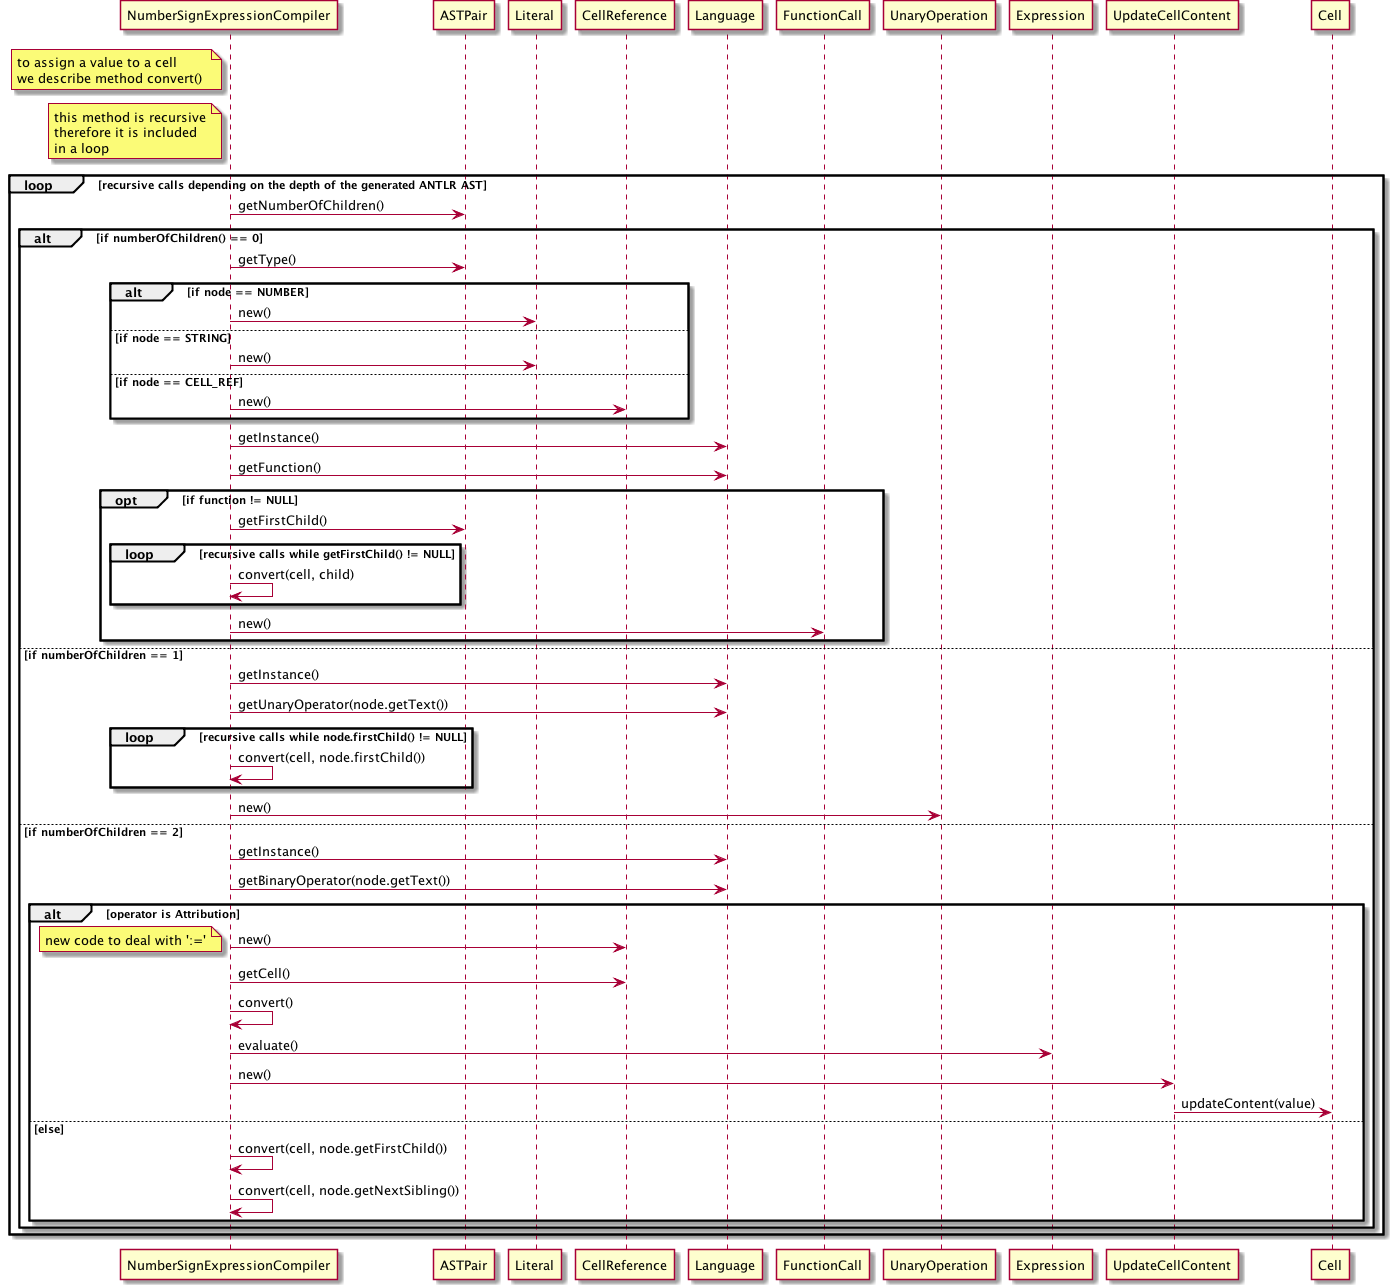
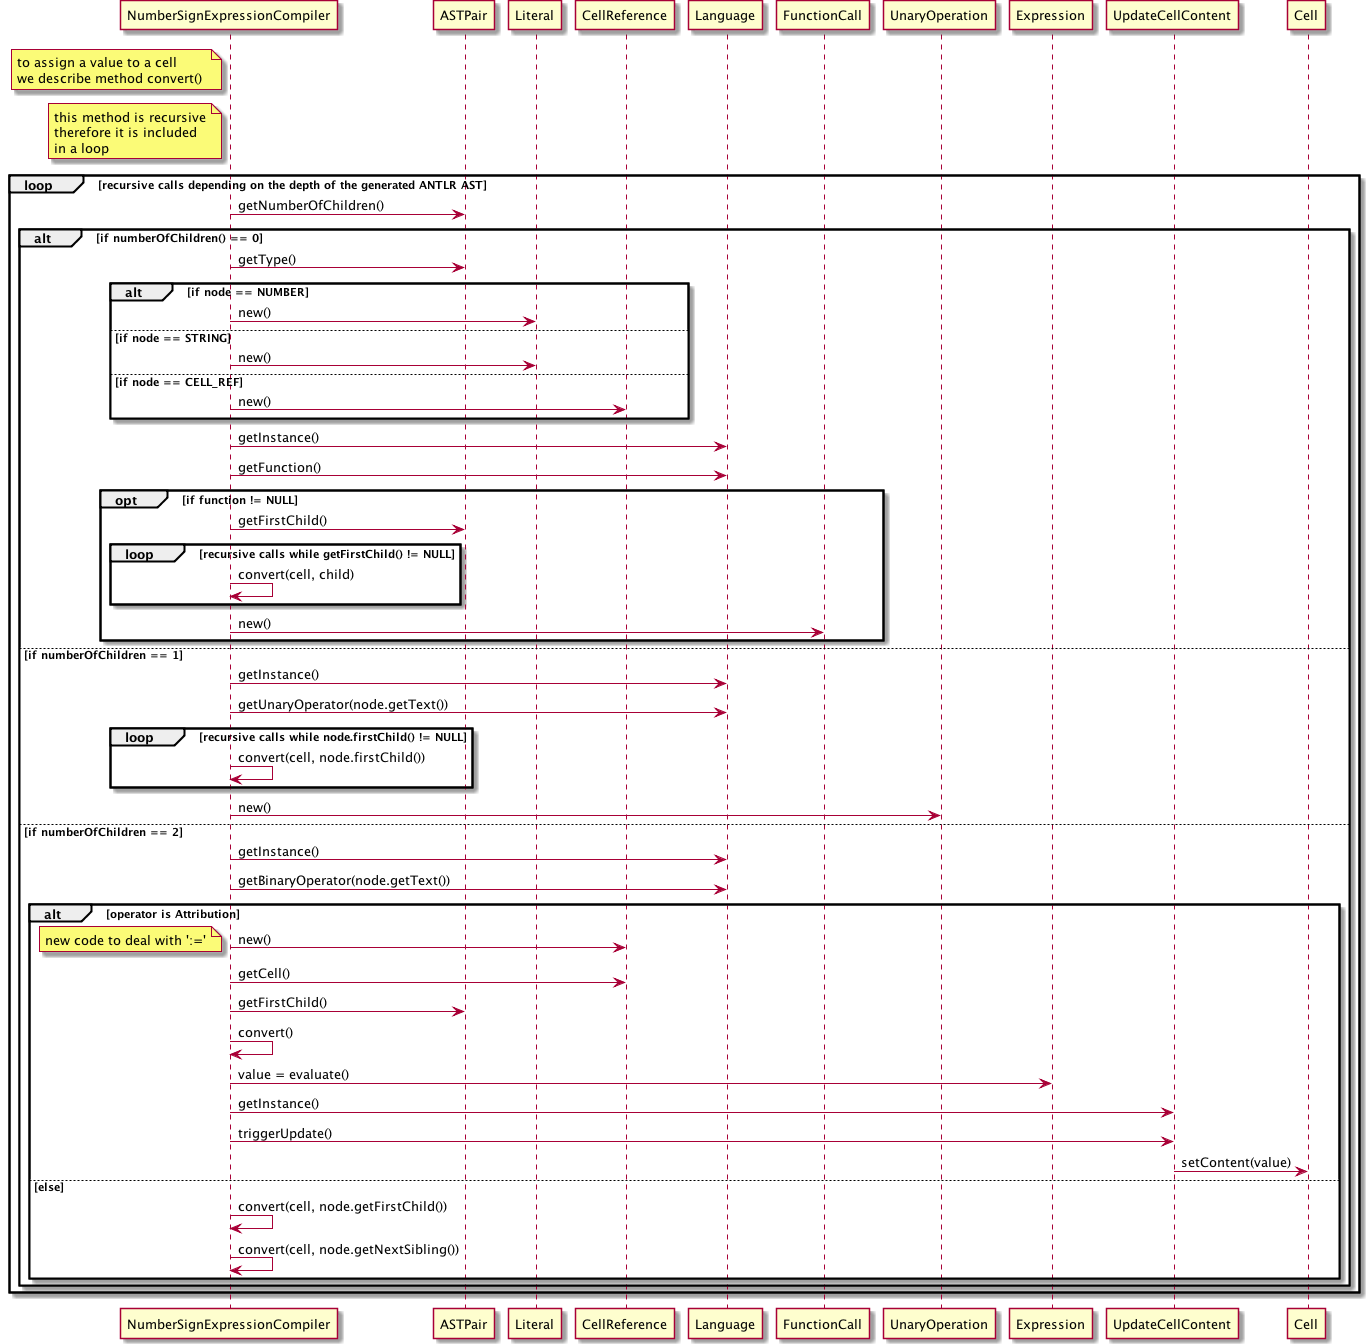
1111168: feature enhancement: UpdateCellContent is now a singleton ref #8

diff --git a/src/csheets/core/UpdateCellContent.java b/src/csheets/core/UpdateCellContent.java
@@ -5,16 +5,26 @@ import csheets.core.formula.compiler.FormulaCompilationException;
 import java.text.NumberFormat;
 
 /**
- *
+ * A singleton to update a cell's content
  * @author João Carreira
  */
 public class UpdateCellContent 
 {
-    public UpdateCellContent()
+    
+    private static UpdateCellContent instance = null;
+    
+    /* private constructor as required in the singleton pattern */
+    private UpdateCellContent()
     {
     }
     
-    public void update(Cell cell, Value value) throws FormulaCompilationException
+    /**
+     * updates a cell's content
+     * @param cell  targeted cell
+     * @param value new cell's value
+     * @throws FormulaCompilationException 
+     */
+    public void triggerUpdate(Cell cell, Value value) throws FormulaCompilationException
     {
         if(value.getType() == Value.Type.NUMERIC)
         {
@@ -24,5 +34,18 @@ public class UpdateCellContent
         {
             cell.setContent(value.toString());
         }
+    }
+    
+    /**
+     * getInstance
+     * @return UpdateCellContent instance
+     */
+    public static UpdateCellContent getInstance()
+    {
+        if(instance == null)
+        {
+            return new UpdateCellContent();
+        }
+        return instance;
     }
 }

diff --git a/docs/1111168/UmlDiagrams.java b/docs/1111168/UmlDiagrams.java
@@ -151,10 +151,12 @@ loop recursive calls depending on the depth of the generated ANTLR AST
     NumberSignExpressionCompiler -> CellReference: new()
     note left: new code to deal with ':='
     NumberSignExpressionCompiler -> CellReference: getCell()
+    NumberSignExpressionCompiler -> ASTPair: getFirstChild()
     NumberSignExpressionCompiler -> NumberSignExpressionCompiler: convert()
-    NumberSignExpressionCompiler -> Expression: evaluate()
-    NumberSignExpressionCompiler -> UpdateCellContent: new()
-    UpdateCellContent -> Cell: updateContent(value)
+    NumberSignExpressionCompiler -> Expression: value = evaluate()
+    NumberSignExpressionCompiler -> UpdateCellContent: getInstance()
+    NumberSignExpressionCompiler -> UpdateCellContent: triggerUpdate()
+    UpdateCellContent -> Cell: setContent(value)
    else else
     NumberSignExpressionCompiler -> NumberSignExpressionCompiler: convert(cell, node.getFirstChild())
     NumberSignExpressionCompiler -> NumberSignExpressionCompiler: convert(cell, node.getNextSibling()) 

diff --git a/src/csheets/core/formula/compiler/NumberSignExpressionCompiler.java b/src/csheets/core/formula/compiler/NumberSignExpressionCompiler.java
@@ -181,8 +181,7 @@ public class NumberSignExpressionCompiler implements ExpressionCompiler
                                 AST next = node.getFirstChild();
                                 Expression exp = convert(destinationCell, next.getNextSibling());
                                 Value val = exp.evaluate();
-                                UpdateCellContent updateCell = new UpdateCellContent();
-                                updateCell.update(destinationCell, val);
+                                UpdateCellContent.getInstance().triggerUpdate(destinationCell, val);
                             }
                             catch(ParseException e)
                             {
